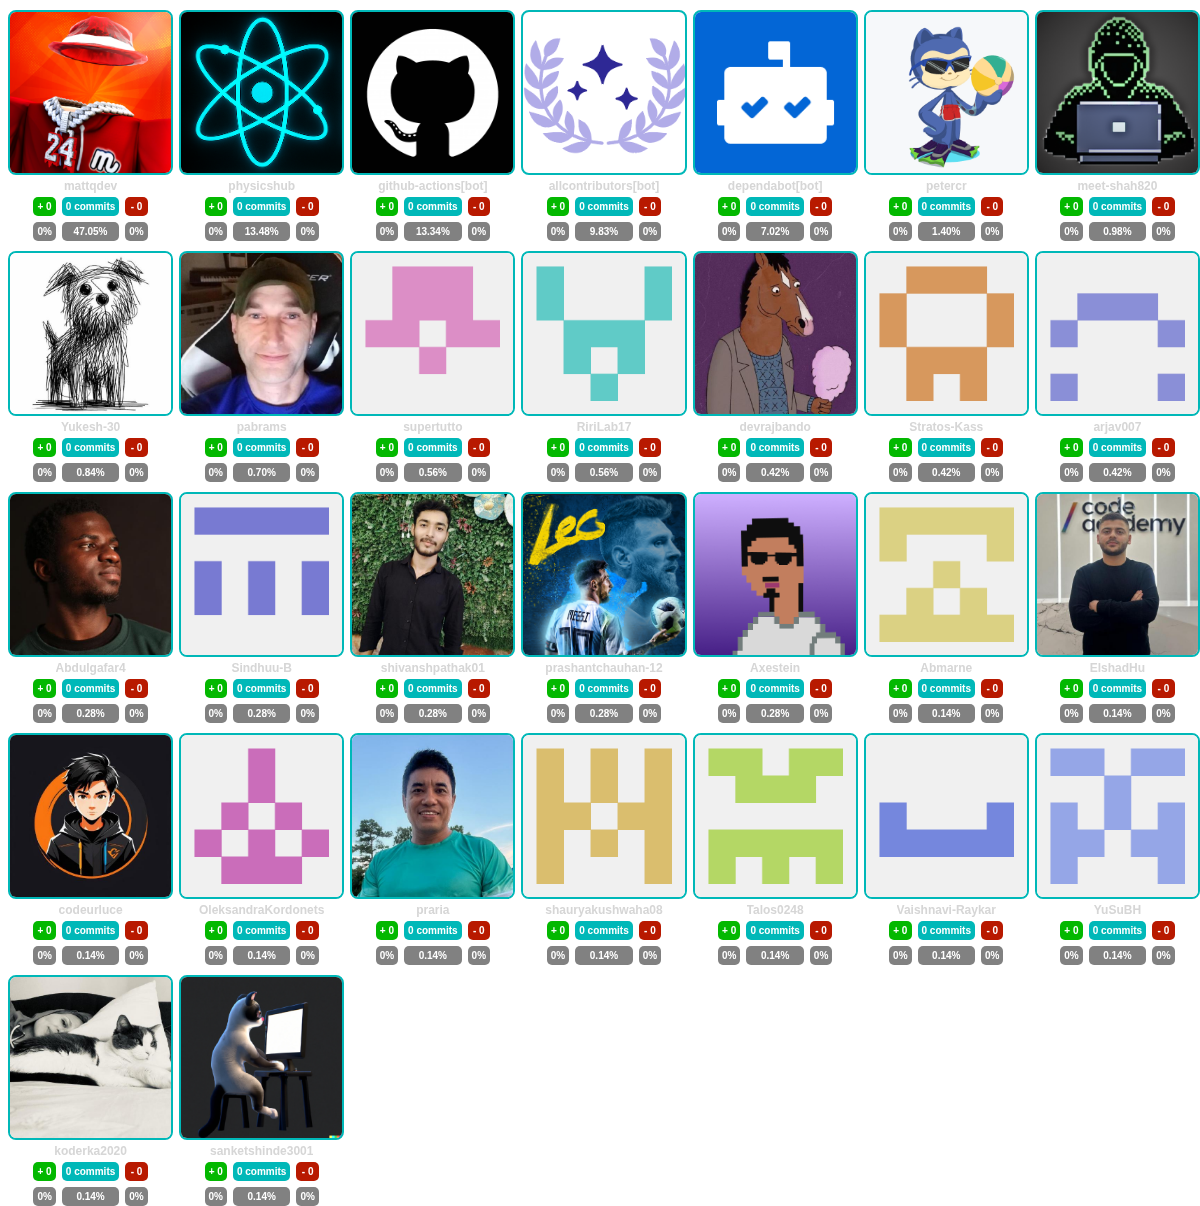
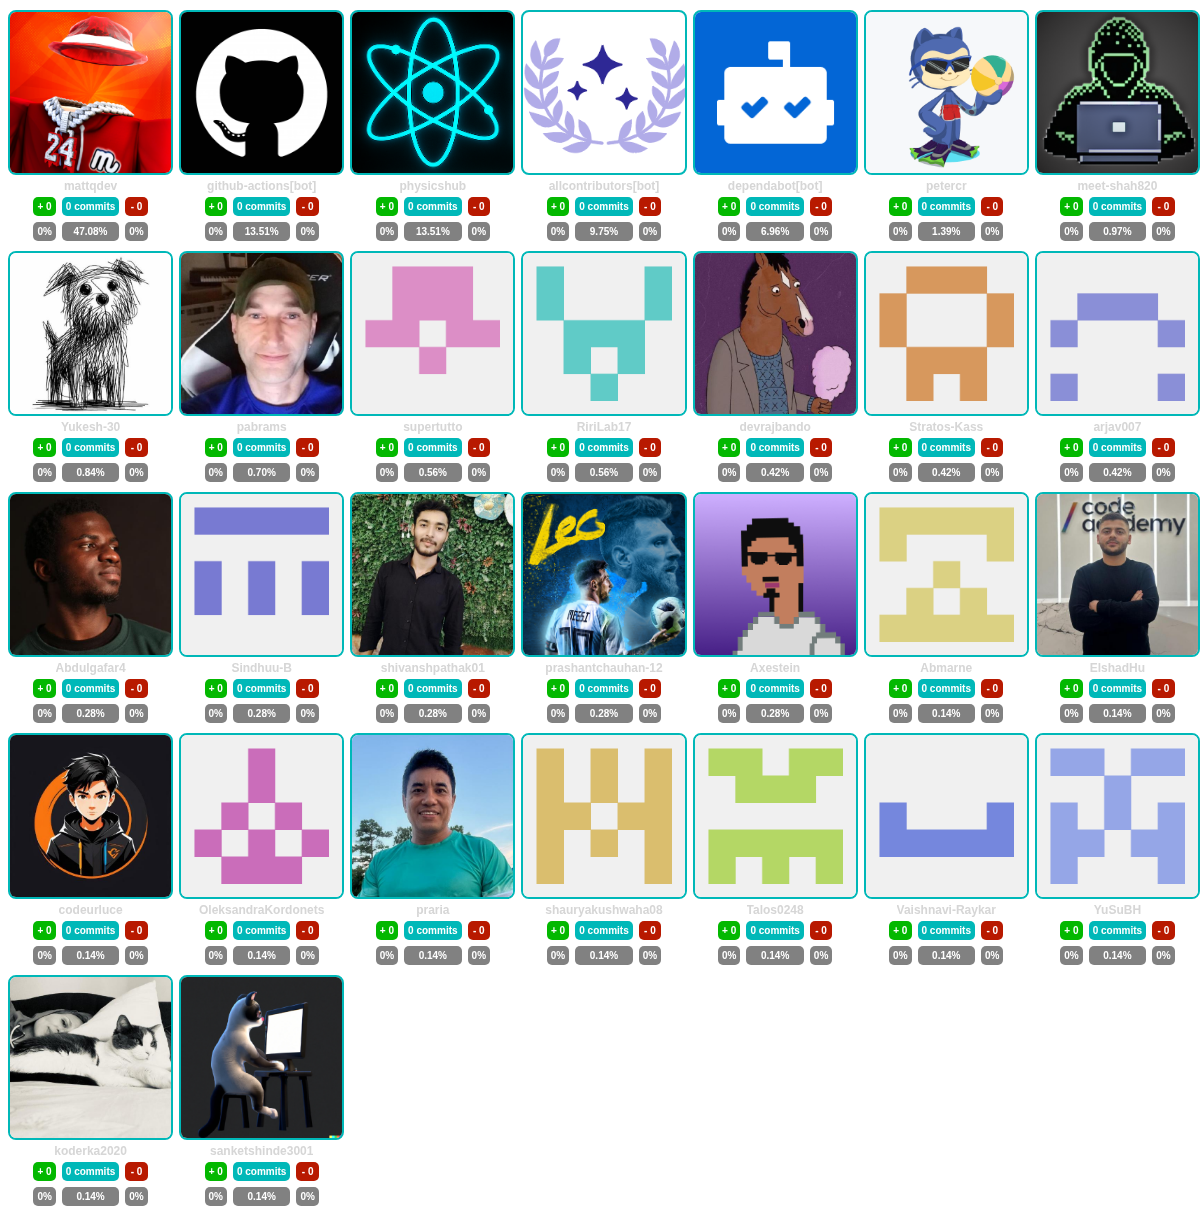
docs: update contributors

Changed region(s): [[0.1542, 0.0, 0.4317, 0.1534]]

diff --git a/scripts/contributors/contributors.html b/scripts/contributors/contributors.html
@@ -19,38 +19,7 @@
                 <span>0 commits</span>
               </div>
               <div class="percentage">
-                <span>47.05%</span>
-              </div>
-            </div>
-            <div class="item">
-              <div class="removed">
-                <span>- 0</span>
-              </div>
-              <div class="percentage">
-                <span>0%</span>
-              </div>
-            </div>
-        </div>
-      </li>
-
-      <li title="physicshub">
-        <img src="https://avatars.githubusercontent.com/u/226545239?v=4" alt="physicshub"/>
-        <h3>physicshub</h3>
-        <div class="container">
-            <div class="item">
-              <div class="added">
-                <span>+ 0</span>
-              </div>
-              <div class="percentage">
-                <span>0%</span>
-              </div>
-            </div>
-            <div class="item">
-              <div class="commits">
-                <span>0 commits</span>
-              </div>
-              <div class="percentage">
-                <span>13.48%</span>
+                <span>47.08%</span>
               </div>
             </div>
             <div class="item">
@@ -81,7 +50,38 @@
                 <span>0 commits</span>
               </div>
               <div class="percentage">
-                <span>13.34%</span>
+                <span>13.51%</span>
+              </div>
+            </div>
+            <div class="item">
+              <div class="removed">
+                <span>- 0</span>
+              </div>
+              <div class="percentage">
+                <span>0%</span>
+              </div>
+            </div>
+        </div>
+      </li>
+
+      <li title="physicshub">
+        <img src="https://avatars.githubusercontent.com/u/226545239?v=4" alt="physicshub"/>
+        <h3>physicshub</h3>
+        <div class="container">
+            <div class="item">
+              <div class="added">
+                <span>+ 0</span>
+              </div>
+              <div class="percentage">
+                <span>0%</span>
+              </div>
+            </div>
+            <div class="item">
+              <div class="commits">
+                <span>0 commits</span>
+              </div>
+              <div class="percentage">
+                <span>13.51%</span>
               </div>
             </div>
             <div class="item">
@@ -112,7 +112,7 @@
                 <span>0 commits</span>
               </div>
               <div class="percentage">
-                <span>9.83%</span>
+                <span>9.75%</span>
               </div>
             </div>
             <div class="item">
@@ -143,7 +143,7 @@
                 <span>0 commits</span>
               </div>
               <div class="percentage">
-                <span>7.02%</span>
+                <span>6.96%</span>
               </div>
             </div>
             <div class="item">
@@ -174,7 +174,7 @@
                 <span>0 commits</span>
               </div>
               <div class="percentage">
-                <span>1.40%</span>
+                <span>1.39%</span>
               </div>
             </div>
             <div class="item">
@@ -205,7 +205,7 @@
                 <span>0 commits</span>
               </div>
               <div class="percentage">
-                <span>0.98%</span>
+                <span>0.97%</span>
               </div>
             </div>
             <div class="item">
